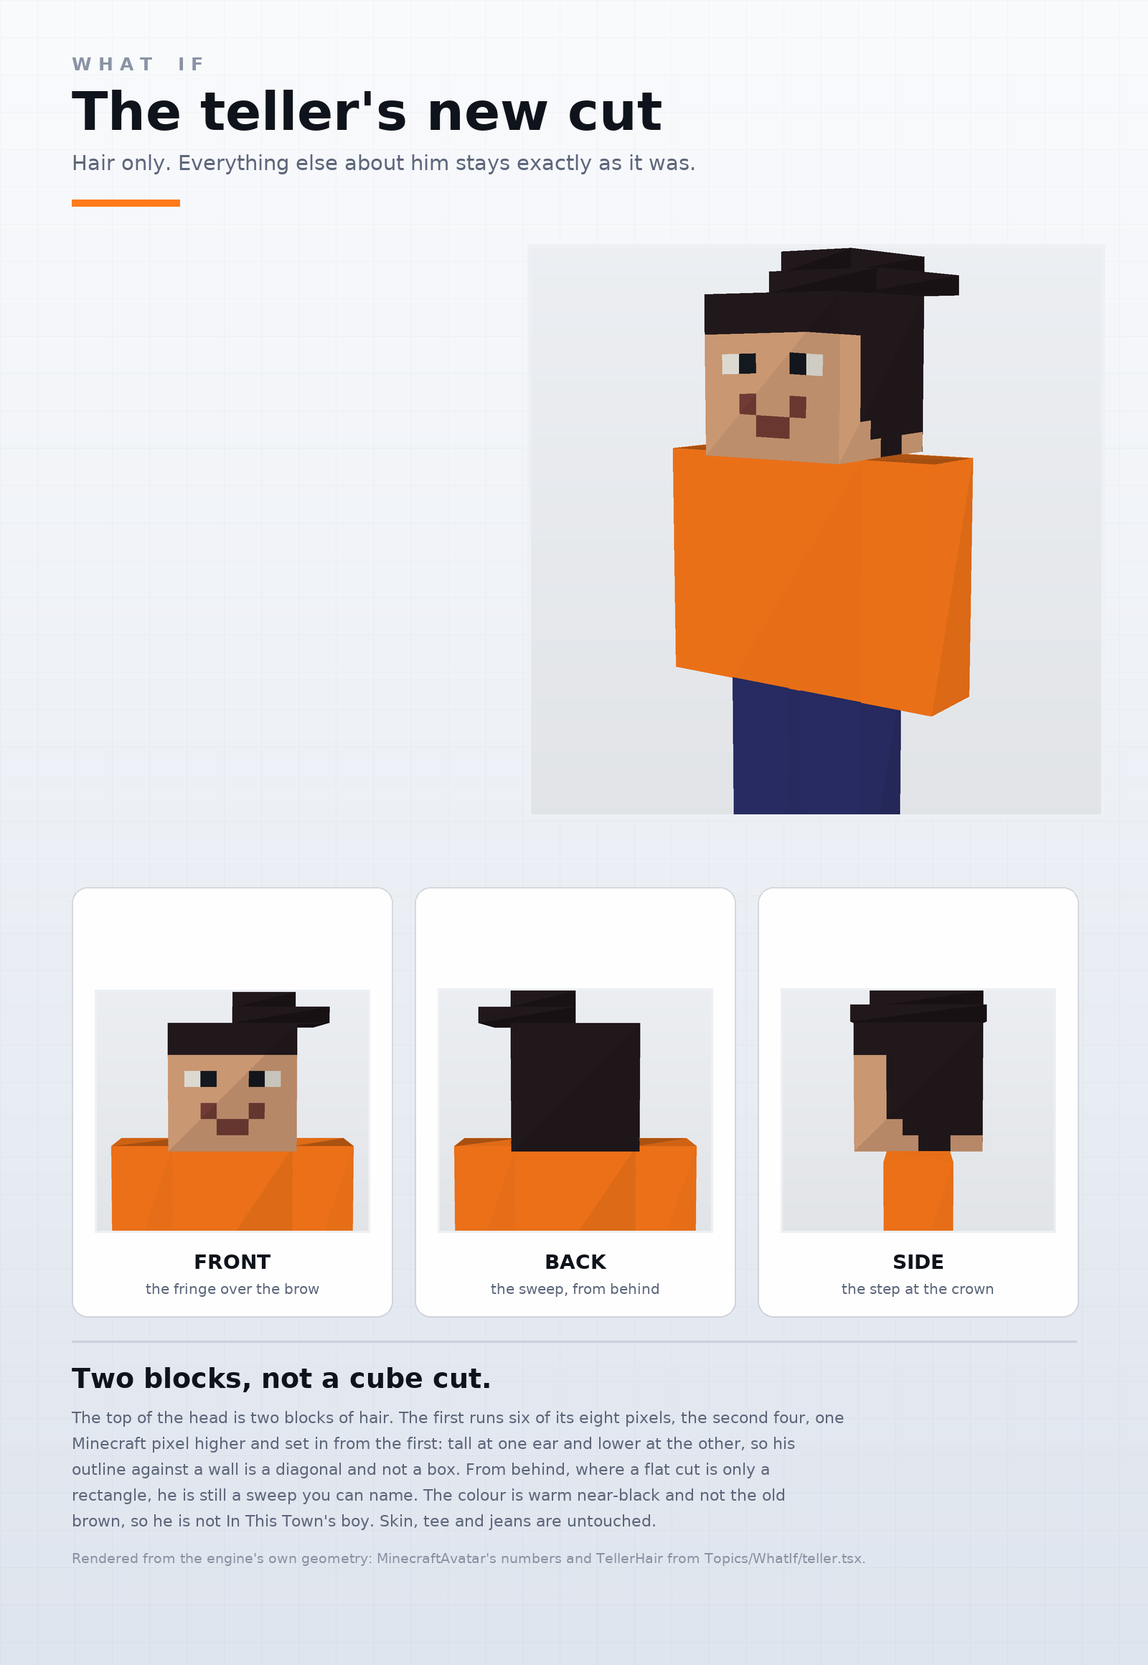
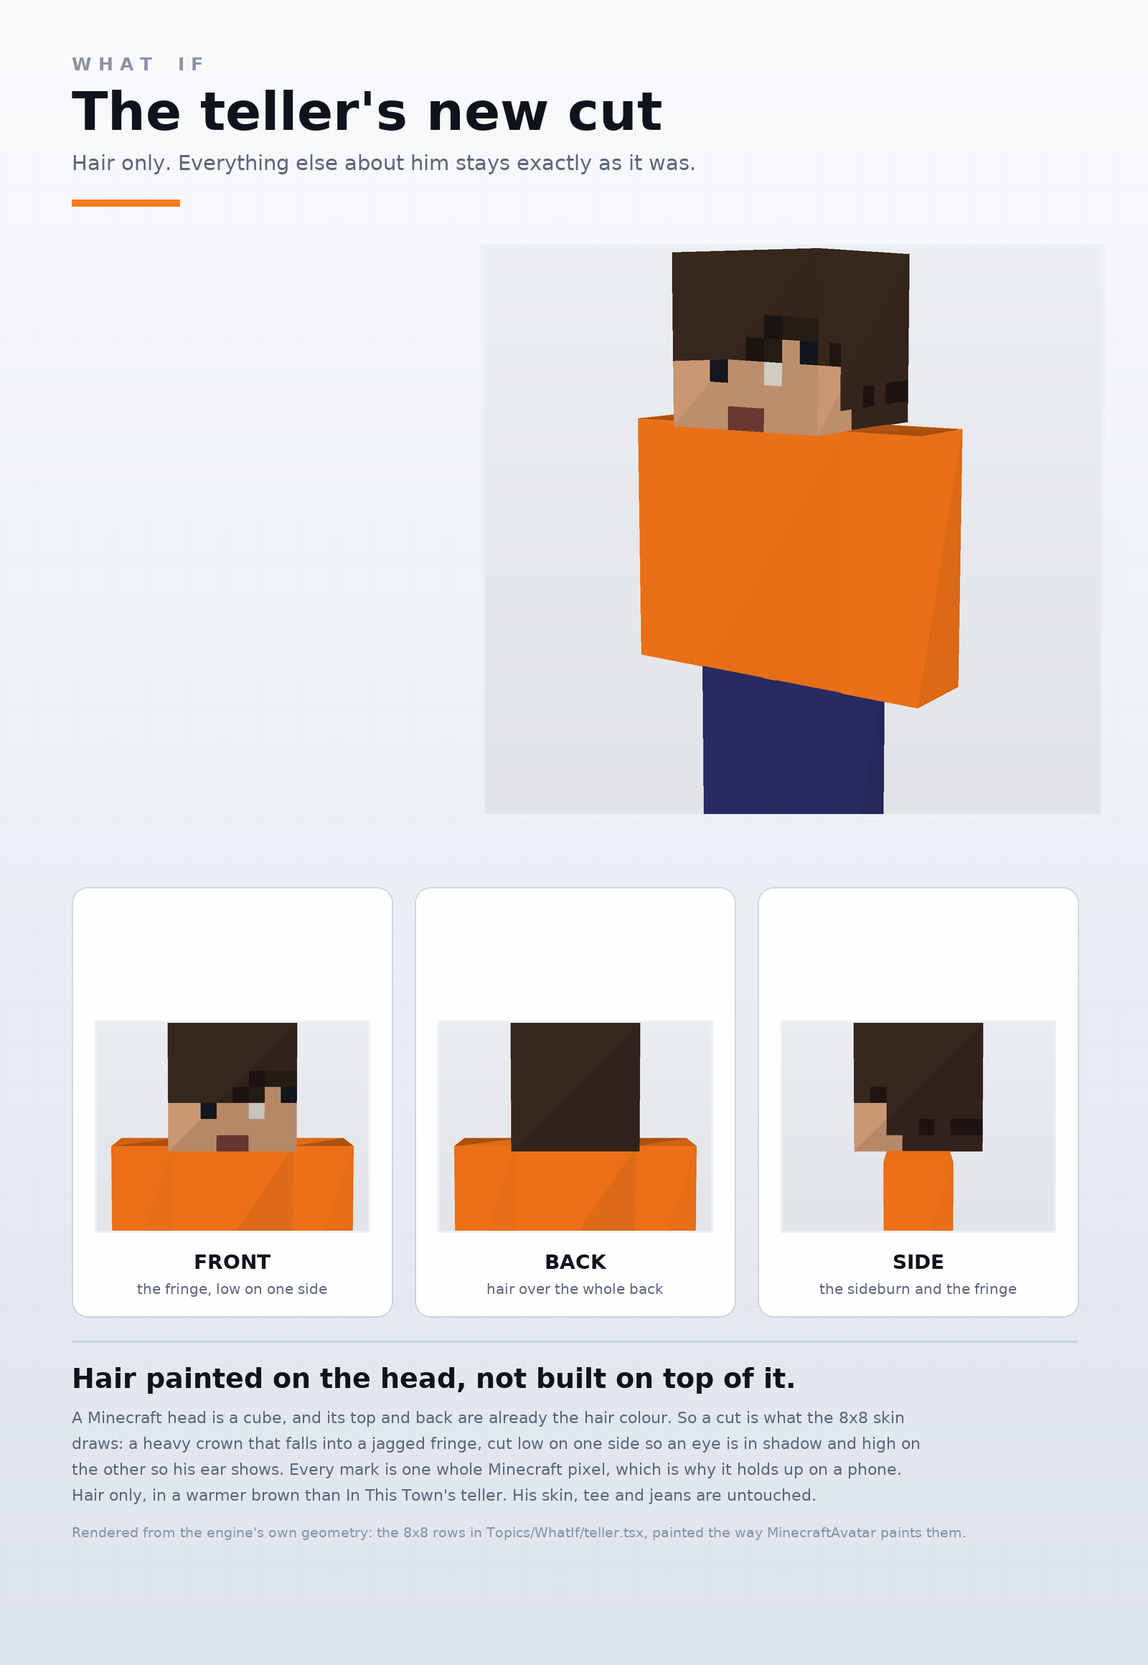
What If: paint the teller's hair on the head
The block-cut hair stood off the cube and read as a helmet. Hair on a
Minecraft head is paint: the top and the back already are the hair colour,
so the cut is what the 8x8 skin draws on the front and the sides.

- face.ts: rowsTexture + sideRowsTexture, so a film can paint its own head
  in the same palette as the built-in faces.
- MinecraftAvatar: faceRows / sideRows props. Blink, gaze and emissive all
  work on a painted head as they do on a built-in one.
- teller.tsx: HERO_FACE and HERO_SIDE, a heavy crown falling into a jagged
  fringe, low over one eye and high on the other, plus TELLER (one spread
  for a film's Hero).
- design/: teller.png redrawn; avatar.mjs reads the rows straight out of
  teller.tsx so the picture cannot drift from the code.
- PACK.md and README.md follow.

diff --git a/Topics/WhatIf/teller.tsx b/Topics/WhatIf/teller.tsx
@@ -1,59 +1,62 @@
-import type React from "react";
-import { Block } from "../../src/engine";
+import type { MinecraftAvatarProps } from "../../src/engine";
 
 /**
  * THE TELLER — who tells a "What if" film, in one place, so every film of the topic is the same kid telling a
  * different story instead of every film inventing him again.
  *
- * He is not in the pack's cast (`cast.tsx`) because the cast are the people round him; he is not in
- * `things.tsx` because he is not a prop. PACK.md has his page.
- *
- * THE CUT IS THE POINT. A default Minecraft head is a cube with hair on the top and the back: from behind it is
- * a brown box, and so is every teller of In This Town's. This one is a sweep — two blocks standing proud of the
- * cube, tall at one ear and stepping down to the other — so the outline against a wall is a diagonal, and a shot
- * from behind says which kid it is. It costs two boxes and it reads at phone size in a dark room.
- *
- *   1.8 / 32 is one Minecraft pixel in metres: the head is 8 of them, and the `head` prop is parented at the
- *   MIDDLE of the 8×8×8 head cube, so the top of the head is +1.8/16 m and one pixel is +1.8/32 m from there.
+ * HAIR IS PAINTED, NOT BUILT. A Minecraft head is a cube; the top and the back already ARE the hair colour.
+ * A cut is therefore what the 8×8 skin draws — the hairline, the fringe, the length at the sides — and blocks
+ * standing off the cube read as a helmet. Every mark below is one whole Minecraft pixel, which is why it
+ * survives being shrunk to a phone.
  */
 
-const PX = 1.8 / 32;
-
-/**
- * What the teller wears, and the colour of his hair. `hair` must be the colour the avatar itself is drawn with:
- * the head cube's own top and back are that colour, and a cut in another colour would not join them.
- *
- * Warm near-black, not In This Town's brown `#3a2415`: the two boys are not the same boy at a glance.
- */
+/** His colours. `hair` is the colour the cube itself is drawn in, so the paint and the block agree. */
 export const HERO = {
   skin: "#dba47c",
-  hair: "#241a1e",
+  hair: "#3b2a20",
   torso: "#ff7a1a",
   arms: "#ff7a1a",
   legs: "#2b2f6a",
 } as const;
 
 /**
- * THE CUT. Hair swept to one side: a lift over the whole crown, a taller half on one side, and its step down to
- * the other. `part` is which side is tall; his is the default, and a film that wants the mirror image says so.
+ * THE FACE, eight rows of eight. Palette: `.` skin · `,` skin shadow · `h` hair · `H` dark hair · `b` darkest
+ * hair · `w` eye white · `p` pupil · `m` mouth.
  *
- *   <MinecraftAvatar scale={KID} outfit="tee" skin={HERO.skin} hair={HERO.hair}
- *     colors={{ torso: HERO.torso, arms: HERO.arms, legs: HERO.legs }} head={<TellerHair />} blink />
- *
- * Hair below the crown line is the avatar's own (`hairMat`, the top and back of the head, and `headSideTexture`
- * on the sides), so this only ever draws ON TOP of the cube and never past its cheeks.
+ * A heavy crown that falls into a jagged fringe, the fringe cut LOW on his right so one eye is in shadow,
+ * and the other side short enough to see his ear. Asymmetric, so it cannot be mistaken for a bob.
  */
-export const TellerHair: React.FC<{ hair?: string; part?: "left" | "right" }> = ({ hair = HERO.hair, part = "left" }) => {
-  const p = PX;
-  const top = 4 * p; // the top face of the head cube, from its middle
-  const dir = part === "left" ? 1 : -1;
-  // Two blocks, not three: the first is 6 px of the head's 8, the second 4 px. Each is one pixel higher and
-  // set in from the last, so the cut is a staircase in silhouette — from the front, from the side, and from
-  // behind, where a flat cube cut is only a rectangle.
-  return (
-    <group>
-      <Block position={[dir * 3 * p, top + 0.5 * p, 0]} size={[6 * p, p, 8 * p]} color={hair} />
-      <Block position={[dir * 2 * p, top + 1.5 * p, -0.5 * p]} size={[4 * p, p, 7 * p]} color={hair} />
-    </group>
-  );
+export const HERO_FACE = [
+  "hhhhhhhh",
+  "hhhhhhhh",
+  "hhhhhhhh",
+  "hhhhhbHH",
+  "hhhhbH.p",
+  "..p..w..",
+  "........",
+  "...mm...",
+];
+
+/**
+ * THE SIDES, eight rows of eight, painted front-to-back (the engine mirrors them for the other side). Hair
+ * over the whole crown, running down the back of the head, and a sideburn in front of the ear.
+ */
+export const HERO_SIDE = [
+  "hhhhhhhh",
+  "hhhhhhhh",
+  "hhhhhhhh",
+  "hhhhhhhh",
+  "hbhhhhhh",
+  "..hhhhhh",
+  "..hhbhbb",
+  "...hhhhh",
+];
+
+/** The props a teller needs, so a film's `Hero` is one spread. */
+export const TELLER: Pick<MinecraftAvatarProps, "skin" | "hair" | "colors" | "faceRows" | "sideRows"> = {
+  skin: HERO.skin,
+  hair: HERO.hair,
+  colors: { torso: HERO.torso, arms: HERO.arms, legs: HERO.legs },
+  faceRows: HERO_FACE,
+  sideRows: HERO_SIDE,
 };

diff --git a/src/engine/MinecraftAvatar.tsx b/src/engine/MinecraftAvatar.tsx
@@ -4,7 +4,7 @@ import { useCurrentFrame, useVideoConfig } from "remotion";
 import type { AnimName, GaitName, Pose } from "./anim";
 import { blendPose, gaitPose, getPose } from "./anim";
 import type { FaceName } from "./face";
-import { blinkFaceTexture, faceTexture, headSideTexture } from "./face";
+import { blinkFaceTexture, faceTexture, headSideTexture, rowsTexture, sideRowsTexture } from "./face";
 import { clamp, TAU, wobble } from "./math";
 import type { Vec3 } from "./math";
 import { glowTex, pixelTex, stripeTex } from "./textures";
@@ -101,6 +101,15 @@ export type MinecraftAvatarProps = {
    * at the middle of the head cube, so it nods, turns and lies down with it. +Z is the face.
    */
   head?: React.ReactNode;
+  /**
+   * Paint the head yourself instead of taking a built-in face: 8 rows of 8, in the face palette
+   * (`.` skin, `,` skin shadow, `h` hair, `H` dark hair, `b` darkest hair, `w` eye white, `p` pupil,
+   * `m` mouth, `r` open mouth, `B` brow shadow). Use it for hair that is drawn ON the cube — a fringe,
+   * a side part, a shaved line — rather than for something worn on the head, which is `head`.
+   */
+  faceRows?: string[];
+  /** The same, painted onto the sides of the head. Mirror it yourself for the other side (`sideRowsRight`). */
+  sideRows?: string[];
 };
 
 const PX = 1.8 / 32; // one Minecraft pixel in metres
@@ -207,6 +216,8 @@ export const MinecraftAvatar: React.FC<MinecraftAvatarProps> = ({
   pose: posed,
   children,
   head,
+  faceRows,
+  sideRows,
 }) => {
   const frame = useCurrentFrame();
   const { fps } = useVideoConfig();
@@ -233,15 +244,15 @@ export const MinecraftAvatar: React.FC<MinecraftAvatarProps> = ({
   const materials = useMemo(() => {
     const skinMat = new THREE.MeshStandardMaterial({ color: skin, roughness: 0.95, metalness: 0 });
     const hairMat = new THREE.MeshStandardMaterial({ color: hair, roughness: 1, metalness: 0 });
-    const rightSideMat = new THREE.MeshStandardMaterial({ map: headSideTexture(skin, hair, "right"), roughness: 1, metalness: 0 });
-    const leftSideMat = new THREE.MeshStandardMaterial({ map: headSideTexture(skin, hair, "left"), roughness: 1, metalness: 0 });
+    const rightSideMat = new THREE.MeshStandardMaterial({ map: sideRows ? sideRowsTexture(sideRows, skin, hair, "right") : headSideTexture(skin, hair, "right"), roughness: 1, metalness: 0 });
+    const leftSideMat = new THREE.MeshStandardMaterial({ map: sideRows ? sideRowsTexture(sideRows, skin, hair, "left") : headSideTexture(skin, hair, "left"), roughness: 1, metalness: 0 });
     const faceMat = new THREE.MeshStandardMaterial({
-      map: faceTexture(face, { skin, hair }),
+      map: faceRows ? rowsTexture(faceRows, `${skin}|${hair}`, { skin, hair }) : faceTexture(face, { skin, hair }),
       roughness: 1,
       metalness: 0,
       emissive: faceGlow > 0 ? new THREE.Color("#ffffff") : new THREE.Color("#000000"),
       emissiveIntensity: faceGlow,
-      emissiveMap: faceGlow > 0 ? faceTexture(face, { skin, hair }) : null,
+      emissiveMap: faceGlow > 0 ? (faceRows ? rowsTexture(faceRows, `${skin}|${hair}`, { skin, hair }) : faceTexture(face, { skin, hair })) : null,
     });
     const torsoMat = new THREE.MeshStandardMaterial({ color: "#ffffff", map: kit.torsoTex ?? null, roughness: 1 });
     const armMat = new THREE.MeshStandardMaterial({ color: "#ffffff", map: kit.armTex ?? null, roughness: 1 });
@@ -275,19 +286,21 @@ export const MinecraftAvatar: React.FC<MinecraftAvatarProps> = ({
       }
     }
     return { skinMat, hairMat, rightSideMat, leftSideMat, faceMat, torsoMat, armMat, legMat };
-  }, [skin, hair, face, faceGlow, outfit, rim, kit, colors?.torso, colors?.arms, colors?.legs]);
+  }, [skin, hair, face, faceRows, sideRows, faceGlow, outfit, rim, kit, colors?.torso, colors?.arms, colors?.legs]);
 
   // Blink swaps the face map. Mutating the map keeps the material (and its shader)
   // alive; three only recompiles when the map goes null ↔ non-null.
   const blinkClosed = blink && blinkAmount(clock, phase) > 0.35;
   useEffect(() => {
-    const tex = blinkClosed
-      ? blinkFaceTexture(face, { skin, hair })
-      : faceTexture(face, { skin, hair, gaze });
+    const tex = faceRows
+      ? rowsTexture(faceRows, `${skin}|${hair}`, { skin, hair, gaze, blink: blinkClosed })
+      : blinkClosed
+        ? blinkFaceTexture(face, { skin, hair })
+        : faceTexture(face, { skin, hair, gaze });
     materials.faceMat.map = tex;
     materials.faceMat.emissiveMap = faceGlow > 0 ? tex : null;
     materials.faceMat.needsUpdate = true;
-  }, [materials, blinkClosed, face, skin, hair, faceGlow, gaze]);
+  }, [materials, blinkClosed, face, faceRows, skin, hair, faceGlow, gaze]);
 
   // Pose
   let pose: Pose;

diff --git a/Topics/WhatIf/template/kit.tsx b/Topics/WhatIf/template/kit.tsx
@@ -1,7 +1,7 @@
 import type React from "react";
 import { MinecraftAvatar } from "../../engine";
 import type { MinecraftAvatarProps, Timing, Vec3 } from "../../engine";
-import { HERO, KID, TellerHair, classroom, wordClock } from "../../../Topics/WhatIf";
+import { KID, TELLER, classroom, wordClock } from "../../../Topics/WhatIf";
 import timingJson from "./timing.json";
 
 /**
@@ -16,7 +16,7 @@ export {
   // how a power is shown
   Aura, Beam, Countdown, Echo, Overhead, Streaks, Swirl,
   // the people round the teller, and his own look
-  Classmate, HERO, KIDS, Teacher, TellerHair,
+  Classmate, HERO, KIDS, TELLER, Teacher,
   // the school
   Chalkboard, Classroom, Desk, SchoolHall, classroom,
   // where a story goes when it leaves the classroom, and a function for the places in each (PACK.md)
@@ -58,13 +58,13 @@ export const ME = SPOT.seat(1, 2);
 type A = Partial<MinecraftAvatarProps>;
 
 /**
- * The teller: a kid, first person, in most of the shots. His clothes and his cut come from the pack (`HERO` and
- * `TellerHair`, PACK.md), so every film of the topic is the same boy and no two invent him again.
+ * The teller: a kid, first person, in most of the shots. His colours and his painted head come from the pack
+ * (`HERO` and `TELLER`, PACK.md), so every film of the topic is the same boy and no two invent him again.
  * Keep ONE loud colour nobody else in the film wears, so a phone can find him in a full classroom.
  * Faces for a kid: smile grin laugh frown uneasy brave fear wow ouch calm. Change the face on the cut.
  */
 export const Hero: React.FC<A> = (p) => (
-  <MinecraftAvatar scale={KID} outfit="tee" skin={HERO.skin} hair={HERO.hair} colors={{ torso: HERO.torso, arms: HERO.arms, legs: HERO.legs }} blink head={<TellerHair />} {...p} />
+  <MinecraftAvatar scale={KID} outfit="tee" blink {...TELLER} {...p} />
 );
 
 /** The best friend: the one who is told first, and the one who says stop. A second colour, quieter than the teller's. */

diff --git a/src/videos/what-if-you-could-see-who-had-a-crush-on-you/kit.tsx b/src/videos/what-if-you-could-see-who-had-a-crush-on-you/kit.tsx
@@ -1,7 +1,7 @@
 import type React from "react";
 import { Block, MinecraftAvatar } from "../../engine";
 import type { MinecraftAvatarProps, Timing, Vec3 } from "../../engine";
-import { Bits, Classmate, DEG, HERO, KID, NORTH, Overhead, TellerHair, Teacher, Tie, classroom, gym, kitchen, lunchRoom, wordClock } from "../../../Topics/WhatIf";
+import { Bits, Classmate, DEG, HERO, KID, NORTH, Overhead, TELLER, Teacher, Tie, classroom, gym, kitchen, lunchRoom, wordClock } from "../../../Topics/WhatIf";
 import timingJson from "./timing.json";
 
 /**
@@ -22,7 +22,7 @@ export {
   // the small things
   Card, Cookie, CookieStack, Cup, Dog, DogBowl, Eraser, Sandwich, Tie, Tray,
   // the teller's look: his clothes, and his cut. His colour is HIS: nobody else in a film wears it
-  HERO, TellerHair,
+  HERO, TELLER,
   // shared with the other topics: a kid's bedroom, cubes that spell, a speech bubble, the last picture
   BedBox, Bits, Bubble, Figure, Icon, Puffs, Room, SoundRings, SubscribeSign,
   // staging: when a word is said, how a thing pops in, where "in front of him" is
@@ -179,7 +179,7 @@ type A = Partial<MinecraftAvatarProps>;
  * Faces for a kid: smile grin laugh frown uneasy brave fear wow ouch calm. Change the face on the cut.
  */
 export const Hero: React.FC<A> = (p) => (
-  <MinecraftAvatar scale={KID} outfit="tee" skin={HERO.skin} hair={HERO.hair} colors={{ torso: HERO.torso, arms: HERO.arms, legs: HERO.legs }} blink head={<TellerHair />} {...p} />
+  <MinecraftAvatar scale={KID} outfit="tee" blink {...TELLER} {...p} />
 );
 
 /** Two bunches of hair, tied with yellow: Jo can be told from behind, and from the far end of a path at night. */

diff --git a/src/engine/face.ts b/src/engine/face.ts
@@ -317,6 +317,26 @@ const PALETTE = (skin: string, hair: string) => ({
   N: "#1b2333",
 });
 
+/**
+ * A head painted from your own 8×8 rows — a fringe, a sideburn, a shaved line — in the same palette as the
+ * built-in faces. `options.blink` closes the eyes the way `blinkFaceTexture` does.
+ *
+ * This is how a teller gets hair that is HIS: hair on a Minecraft head is paint on the top, the back and the
+ * upper sides of the cube, not blocks standing off it.
+ */
+export function rowsTexture(rows: string[], key: string, options: FaceOptions & { blink?: boolean } = {}): THREE.CanvasTexture {
+  const source = options.blink
+    ? rows.map((row) => row.split("").map((ch) => (ch === "w" ? "." : ch === "p" ? "," : ch)).join(""))
+    : rows;
+  return buildFaceTexture(source, `rows|${key}${options.blink ? "|blink" : ""}`, options);
+}
+
+/** One side of the head, painted from your own 8×8 rows (mirrored for the other side). */
+export function sideRowsTexture(rows: string[], skin: string, hair: string, side: HeadSide = "right"): THREE.CanvasTexture {
+  const mirrored = side === "right" ? rows : rows.map((row) => row.split("").reverse().join(""));
+  return buildFaceTexture(mirrored, `siderows|${side}|${skin}|${hair}|${rows.join("")}`, { skin, hair, grain: 0.04 });
+}
+
 export type FaceOptions = {
   skin?: string;
   hair?: string;

diff --git a/Topics/WhatIf/design/poster.py b/Topics/WhatIf/design/poster.py
@@ -50,9 +50,9 @@ hero = hero.resize((int(hero.width * hh / hero.height), hh), Image.LANCZOS)
 img.alpha_composite(hero.convert("RGBA"), (W - hero.width - M + 40, 340))
 
 # ---------------- the three views, on one baseline, in cards
-views = [(trim(f"{OUT}/front.png"), "FRONT", "the fringe over the brow"),
-         (trim(f"{OUT}/back.png"),  "BACK",  "the sweep, from behind"),
-         (trim(f"{OUT}/side.png"),  "SIDE",  "the step at the crown")]
+views = [(trim(f"{OUT}/front.png"), "FRONT", "the fringe, low on one side"),
+         (trim(f"{OUT}/back.png"),  "BACK",  "hair over the whole back"),
+         (trim(f"{OUT}/side.png"),  "SIDE",  "the sideburn and the fringe")]
 tw, th, gap, top = 448, 600, 30, 1236
 for i, (im, label, note) in enumerate(views):
     x = M + i * (tw + gap)
@@ -69,19 +69,18 @@ for i, (im, label, note) in enumerate(views):
 d = ImageDraw.Draw(img)
 y = top + th + 62
 d.rectangle([M, y - 30, W - M, y - 28], fill=RULE)
-d.text((M, y), "Two blocks, not a cube cut.", font=font(38), fill=INK)
+d.text((M, y), "Hair painted on the head, not built on top of it.", font=font(38), fill=INK)
 body = [
-    "The top of the head is two blocks of hair. The first runs six of its eight pixels, the second four, one",
-    "Minecraft pixel higher and set in from the first: tall at one ear and lower at the other, so his",
-    "outline against a wall is a diagonal and not a box. From behind, where a flat cut is only a",
-    "rectangle, he is still a sweep you can name. The colour is warm near-black and not the old",
-    "brown, so he is not In This Town's boy. Skin, tee and jeans are untouched.",
+    "A Minecraft head is a cube, and its top and back are already the hair colour. So a cut is what the 8x8 skin",
+    "draws: a heavy crown that falls into a jagged fringe, cut low on one side so an eye is in shadow and high on",
+    "the other so his ear shows. Every mark is one whole Minecraft pixel, which is why it holds up on a phone.",
+    "Hair only, in a warmer brown than In This Town's teller. His skin, tee and jeans are untouched.",
 ]
 for j, line in enumerate(body):
     d.text((M, y + 64 + j * 36), line, font=font(22, False), fill=MUTE)
 # a credit line: what these frames came from, so the picture can be trusted and repeated
 d.text((M, y + 64 + len(body) * 36 + 18),
-       "Rendered from the engine's own geometry: MinecraftAvatar's numbers and TellerHair from Topics/WhatIf/teller.tsx.",
+       "Rendered from the engine's own geometry: the 8x8 rows in Topics/WhatIf/teller.tsx, painted the way MinecraftAvatar paints them.",
        font=font(19, False), fill=hx("#8892a3"))
 
 img.convert("RGB").save(f"{OUT}/poster.png")

diff --git a/Topics/WhatIf/PACK.md b/Topics/WhatIf/PACK.md
@@ -115,26 +115,30 @@ Who tells a "What if" film, in one place, so every film of the topic is the same
 
 | Part | Props | Use it for |
 |---|---|---|
-| `HERO` | | His skin, his hair, and the colours of his tee and jeans. Spread it into an avatar, so no film invents him again |
-| `TellerHair` | `hair` (the same colour the avatar is drawn with), `part` ("left" or "right") | His haircut: two blocks on the crown, tall at one ear and stepping down at the other |
+| `HERO` | | His skin, his hair colour, and the colours of his tee and jeans |
+| `HERO_FACE`, `HERO_SIDE` | | His painted head: the 8×8 rows for the face and the sides |
+| `TELLER` | | All of the above as avatar props: `skin`, `hair`, `colors`, `faceRows`, `sideRows` |
 
-`Hero` in a kit is one line:
+`Hero` in a kit is one line — spread `TELLER`, and the head paints itself:
 
 ```tsx
-<MinecraftAvatar scale={KID} outfit="tee" skin={HERO.skin} hair={HERO.hair}
-  colors={{ torso: HERO.torso, arms: HERO.arms, legs: HERO.legs }} blink head={<TellerHair />} />
+<MinecraftAvatar scale={KID} outfit="tee" blink {...TELLER} />
 ```
 
-**The cut is a rule of the topic, not a decoration.** A default Minecraft head is hair on the top and the back,
-which from behind is a brown rectangle — and that is In This Town's teller too. Two blocks standing proud of the
-cube make his outline a diagonal, so a shot from behind still says which kid it is. Hair only: skin, tee and jeans
-are the boy the first film already has, and they stay.
+**Hair is painted, not built.** The head is a cube whose top and back are already the hair colour, so a cut is
+what the 8×8 skin draws on the front and the sides. Blocks standing off the cube read as a helmet. `MinecraftAvatar`
+takes `faceRows` and `sideRows` for exactly this, and `npm run check` needs nothing else.
+
+**The cut is a rule of the topic.** A heavy crown falling into a jagged fringe, cut low on one side so an eye is
+in shadow, high on the other so his ear shows — asymmetric, so it is never mistaken for In This Town's flat cube
+cut, from the front or from behind. Hair only: skin, tee and jeans are the boy the first film already has.
 
 ![The teller's new cut](design/teller.png)
 
-`design/teller.png` is those views, drawn from the engine's own geometry. `design/avatar.mjs` and
-`design/poster.py` rebuild it (`node Topics/WhatIf/design/avatar.mjs /tmp/teller && python3
-Topics/WhatIf/design/poster.py /tmp/teller`); they need `node_modules` but no browser.
+`design/teller.png` is those views, drawn from the engine's own geometry. `design/avatar.mjs` reads the rows out
+of `teller.tsx` (so the picture cannot drift from the code) and `design/poster.py` composes the sheet:
+
+    node Topics/WhatIf/design/avatar.mjs /tmp/teller && python3 Topics/WhatIf/design/poster.py /tmp/teller
 
 Faces for a kid: `smile grin laugh frown uneasy brave fear wow ouch calm`. Change the face on the cut.
 

diff --git a/Topics/WhatIf/README.md b/Topics/WhatIf/README.md
@@ -132,7 +132,7 @@ A first setting, like the numbers, until a reference is measured. The reasons ar
 | `things.tsx` | Dog, DogBowl, Tray, Cup, Sandwich, Cookie, CookieStack, Eraser, Card, Tie |
 | `powers.tsx` | Overhead, Aura, Echo, Streaks, Swirl, Countdown, Beam |
 | `cast.tsx` | Twelve classmates, and a teacher |
-| `teller.tsx` | Who tells a film of this topic: `HERO` (his clothes and colour) and `TellerHair` (his cut). Every film's `Hero` is built from it, so he is the same kid in all of them |
+| `teller.tsx` | Who tells a film of this topic: `HERO` (his colours), `HERO_FACE` / `HERO_SIDE` (his hair, painted on the 8×8 head) and `TELLER` (all of it as avatar props). Every film's `Hero` spreads it, so he is the same kid in all of them |
 | `design/teller.png` | The teller's cut from the front, the back, the side and three-quarters, and the source that rebuilds the picture |
 | `template/` | The starter film that `npm run new -- … --topic what-if` copies |
 | `sheet/` | The source of `pack.jpg`: a film that only shows the parts. `PACK.md` says how to rebuild it |
